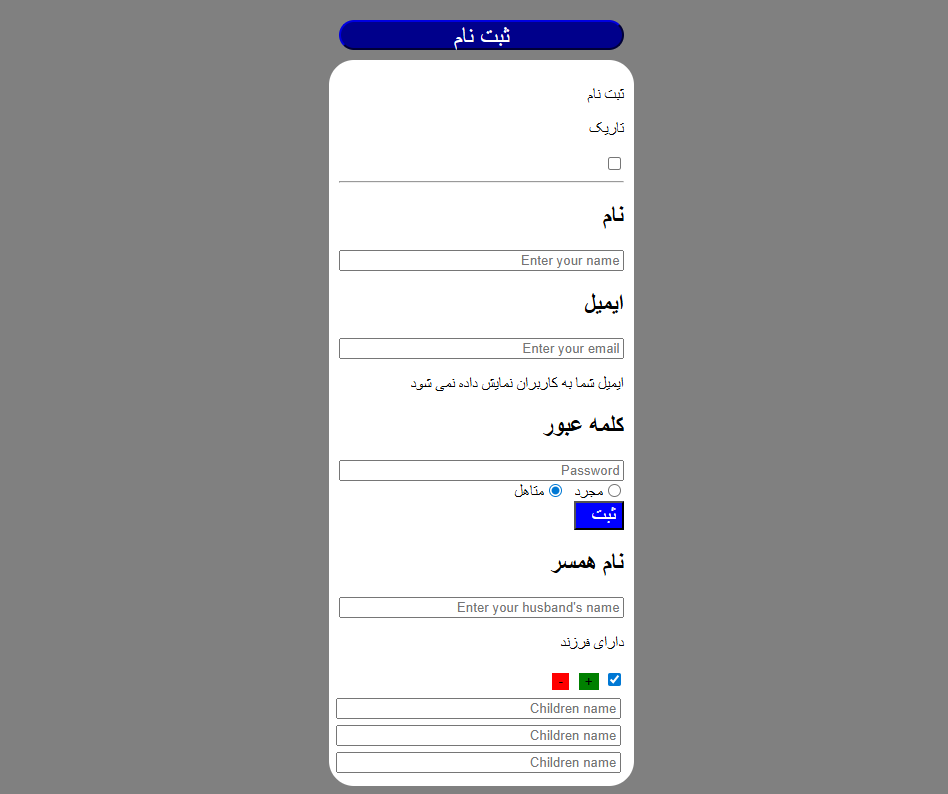
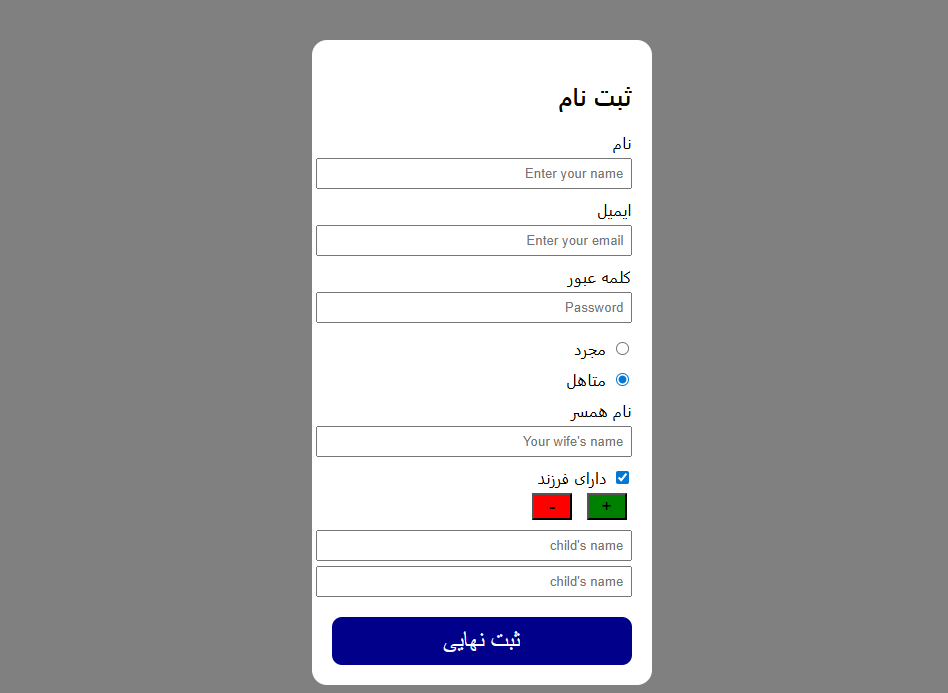
Add some changes

Changed region(s): [[0.3059, 0.0, 0.7036, 1.0]]

diff --git a/JavaScript/Assignment_14/Login/script.js b/JavaScript/Assignment_14/Login/script.js
@@ -1,189 +1,54 @@
-var main = document.getElementById("main");
+const marriedSection = document.getElementById("marriedSection");
+const childrenSection = document.getElementById("childrenSection");
+const hasChild = document.getElementById("hasChild");
 
-function show_items(){
-    // form
-    main.style.width = "30%";
-    main.style.backgroundColor = "white";
-    main.style.marginTop = "10px";
-    main.style.borderRadius = "25px";
-    main.style.padding = "10px";
-    // item 1
-    var title = document.createElement("P");
-    title.innerText = "ثبت نام";
-    title.style.direction = "rtl";
-    main.appendChild(title);
-    // item 2
-    var title = document.createElement("P");
-    title.innerText = "تاریک";
-    main.appendChild(title);
+const radios = document.getElementsByName("status");
+const addChildBtn = document.getElementById("addChild");
+const removeChildBtn = document.getElementById("removeChild");
 
-    var dark = document.createElement("INPUT");
-    dark.type = "checkbox";
-    dark.style.display = "inline";
-    main.appendChild(dark);
+const startBtn = document.getElementById("startBtn");
+const form = document.getElementById("loginForm");
 
-    dark.addEventListener("change", function () {
-    if (dark.checked) {
-        main.style.backgroundColor = "lightgray";
+startBtn.addEventListener("click", () => {
+    form.classList.remove("hidden");
+    startBtn.style.display = "none";
+});
+
+// Show married part
+radios.forEach(radio => {
+    radio.addEventListener("change", () => {
+        if (radio.value === "married" && radio.checked) {
+            marriedSection.classList.remove("hidden");
+        } else if (radio.value === "single" && radio.checked) {
+            marriedSection.classList.add("hidden");
+            childrenSection.classList.add("hidden");
+        }
+    });
+});
+
+// Show children part
+hasChild.addEventListener("change", () => {
+    if (hasChild.checked) {
+        childrenSection.classList.remove("hidden");
     } else {
-        main.style.backgroundColor = "white";
-    }});
-    // line
-    var line = document.createElement("HR");
-    main.appendChild(line);
-    // item 3
-    var name = document.createElement("H2");
-    name.innerText = "نام";
-    name.style.direction = "rtl";
-    main.appendChild(name);
+        childrenSection.classList.add("hidden");
+        document.querySelectorAll(".child-input").forEach(e => e.remove());
+    }
+});
 
-    var input_name = document.createElement("INPUT");
-    input_name.placeholder = "Enter your name";
-    input_name.style.width = "100%";
-    main.appendChild(input_name);
+//  Add children
+addChildBtn.addEventListener("click", () => {
+    const input = document.createElement("input");
+    input.type = "text";
+    input.placeholder = "child's name";
+    input.className = "child-input";
+    childrenSection.appendChild(input);
+});
 
-    // item 4
-    var email = document.createElement("H2");
-    email.innerText = "ایمیل";
-    email.style.direction = "rtl";
-    main.appendChild(email);
-
-    var input_email = document.createElement("INPUT");
-    input_email.type = "email";
-    input_email.placeholder = "Enter your email";
-    input_email.style.width = "100%";
-    main.appendChild(input_email);
-
-    //item 4
-    var text = document.createElement("P");
-    text.innerText = "ایمیل شما به کاربران نمایش داده نمی شود";
-    text.style.direction = "rtl";
-    main.appendChild(text);
-    //item 5
-    var pass = document.createElement("H2");
-    pass.innerText = "کلمه عبور";
-    pass.style.direction = "rtl";
-    main.appendChild(pass);
-
-    var input_pass = document.createElement("INPUT");
-    input_pass.type = "password";
-    input_pass.placeholder = "Password";
-    input_pass.style.width = "100%";
-    main.appendChild(input_pass);
-
-    //item 6
-    var radio_single = document.createElement("INPUT");
-    radio_single.type = "radio";
-    radio_single.name = "status";
-    radio_single.id = "single";
-    
-
-    var label_single = document.createElement("LABEL");
-    label_single.innerText = "مجرد";
-    label_single.setAttribute("for", "single");
-    label_single.style.marginLeft = "10px";
-
-    var radio_married = document.createElement("INPUT");
-    radio_married.type = "radio";
-    radio_married.name = "status";
-    radio_married.id = "married";
-
-    var label_married = document.createElement("LABEL");
-    label_married.innerText = "متاهل";
-    label_married.setAttribute("for", "married");
-    label_married.style.marginLeft = "10px";
-
-    main.appendChild(radio_single);
-    main.appendChild(label_single);
-    main.appendChild(radio_married);
-    main.appendChild(label_married);
-
-    radio_single.addEventListener("change", function () {
-        if (this.checked) {
-            console.log("وضعیت: مجرد");
-        }
-    });
-
-    radio_married.addEventListener("change", function () {
-        if (this.checked) {
-            console.log("وضعیت: متأهل");
-
-            var husband = document.createElement("H2");
-            husband.innerText = "نام همسر";
-            husband.style.direction = "rtl";
-            main.appendChild(husband);
-
-            var input_husband = document.createElement("INPUT");
-            input_husband.placeholder = "Enter your husband's name";
-            input_husband.style.width = "100%";
-            main.appendChild(input_husband);
-        }
-
-        var child = document.createElement("P");
-        child.innerText = "دارای فرزند";
-        child.style.direction = "rtl";
-        main.appendChild(child);
-
-        var have_child = document.createElement("INPUT");
-        have_child.type = "checkbox";
-        
-        main.appendChild(have_child);
-
-        have_child.addEventListener("change", function () {
-        if (have_child.checked) {
-            var btn_add = document.createElement("BUTTON");
-            var btn_remove = document.createElement("BUTTON");
-            btn_add.innerText = "+";
-            btn_add.setAttribute("onclick", "add_child()");
-            btn_remove.innerText = "-";
-            btn_remove.setAttribute("onclick", "remove_child()");
-
-            btn_add.style.backgroundColor = "green";
-            btn_add.style.margin = "5px";
-            btn_add.style.borderStyle = "none";
-
-            btn_remove.style.backgroundColor = "red";
-            btn_remove.style.margin = "5px";
-            btn_remove.style.borderStyle = "none";
-
-            main.appendChild(btn_add);
-            main.appendChild(btn_remove);
-
-        } else {
-            pass;
-        }});
-
-    });
-    var btn_submit = document.createElement("BUTTON");
-    btn_submit.innerText = "ثبت";
-    btn_submit.style.backgroundColor = "blue";
-    btn_submit.style.display = "flex";
-    btn_submit.style.width = "50px";
-    btn_submit.style.color = "white";
-    btn_submit.style.fontSize = "20px";
-
-    btn_submit.style.alignItems = "end";
-    main.appendChild(btn_submit);
-
-    main.style.direction = "rtl";
-} 
-
-function add_child(){
-    var new_child = document.createElement("INPUT");
-    new_child.type = "text";
-    new_child.placeholder = "Children name";
-    new_child.style.margin = "3px";
-    new_child.style.width = "100%";
-    new_child.setAttribute("class", "children");
-    main.appendChild(new_child);
-}
-
-function remove_child(){
-    var children = document.getElementsByClassName("children");
-
+//  Remove children
+removeChildBtn.addEventListener("click", () => {
+    const children = document.querySelectorAll(".child-input");
     if (children.length > 0) {
         children[children.length - 1].remove();
     }
-}
-
-
+});

diff --git a/JavaScript/Assignment_14/Login/index.html b/JavaScript/Assignment_14/Login/index.html
@@ -1,20 +1,64 @@
-<html>
-    <head>
-        <meta charset="UTF-8">
-        <meta name="author" content="Moein Moatali">
-        <meta name="keywords" content="login, form">
-        <meta name="viewport" content="width=device-width, initial-scale=1.0">
+<!DOCTYPE html>
+<html lang="fa">
+<head>
+    <meta charset="UTF-8">
+    <meta name="author" content="Moein Moatali">
+    <meta name="viewport" content="width=device-width, initial-scale=1.0">
+    <title>Login</title>
+    <link rel="stylesheet" href="style.css" type="text/css">
+</head>
+<body>
 
-        <title>LOGIN</title>
-        <link rel="stylesheet" href="./style.css" type="text/css">
-    </head>
-    <body>
-        <button id="btn_start_login" onclick="show_items()">ثبت نام</button>
-        
-        <div id="main">
+<button id="startBtn">ثبت نام</button>
+<form id="loginForm" class="hidden">
 
+    <h2>ثبت نام</h2>
+
+    <label>نام</label>
+    <input type="text" required placeholder="Enter your name">
+
+    <label>ایمیل</label>
+    <input type="email" required placeholder="Enter your email">
+
+    <label>کلمه عبور</label>
+    <input type="password" required placeholder="Password">
+
+    <div class="radio-group">
+        <label>
+            <input type="radio" name="status" value="single" checked>
+            مجرد
+        </label>
+
+        <label>
+            <input type="radio" name="status" value="married">
+            متاهل
+        </label>
+    </div>
+
+    <!-- Married -->
+    <div id="marriedSection" class="hidden">
+
+        <label>نام همسر</label>
+        <input type="text" placeholder="Your wife's name">
+
+        <label>
+            <input type="checkbox" id="hasChild">
+            دارای فرزند
+        </label>
+
+        <div id="childrenSection" class="hidden">
+            <div class="child-buttons">
+                <button type="button" id="addChild" style="background-color: green;">+</button>
+                <button type="button" id="removeChild" style="background-color: red;">-</button>
+            </div>
         </div>
 
-        <script src="./script.js"></script>
-    </body>
+    </div>
+
+    <button type="submit" class="submit-btn">ثبت نهایی</button>
+
+</form>
+
+<script src="script.js"></script>
+</body>
 </html>

diff --git a/JavaScript/Assignment_14/Login/style.css b/JavaScript/Assignment_14/Login/style.css
@@ -1,18 +1,65 @@
 body {
     background-color: gray;
     display: flex;
-    flex-direction: column;
-    align-items: center;
-    margin-top: 20px;
+    justify-content: center;
+    margin-top: 40px;
+    font-family: sans-serif;
 }
 
-#btn_start_login{
-    width: 30%;
-    height: 5%;
-    color: white;
+#startBtn {
+    width: 300px;
+    padding: 12px;
     background-color: darkblue;
-    border-color: darkblue;
-    font-size: x-large;
-    border-radius: 25px;
+    color: white;
+    border: none;
+    border-radius: 15px;
+    font-size: 18px;
+    cursor: pointer;
 }
 
+form {
+    background: white;
+    width: 300px;
+    padding: 20px;
+    border-radius: 15px;
+    direction: rtl;
+}
+
+label {
+    display: block;
+    margin-top: 10px;
+}
+
+input[type="text"],
+input[type="email"],
+input[type="password"] {
+    width: 100%;
+    padding: 6px;
+    margin-top: 5px;
+}
+
+.radio-group {
+    margin-top: 15px;
+}
+
+.hidden {
+    display: none;
+}
+
+.child-buttons button {
+    width: 40px;
+    margin: 5px;
+    font-size: 18px;
+}
+
+.submit-btn {
+    margin-top: 20px;
+    width: 100%;
+    padding: 10px;
+    background-color: darkblue;
+    color: white;
+    border: none;
+    border-radius: 10px;
+    box-sizing: border-box;
+    font-size: x-large;
+}
